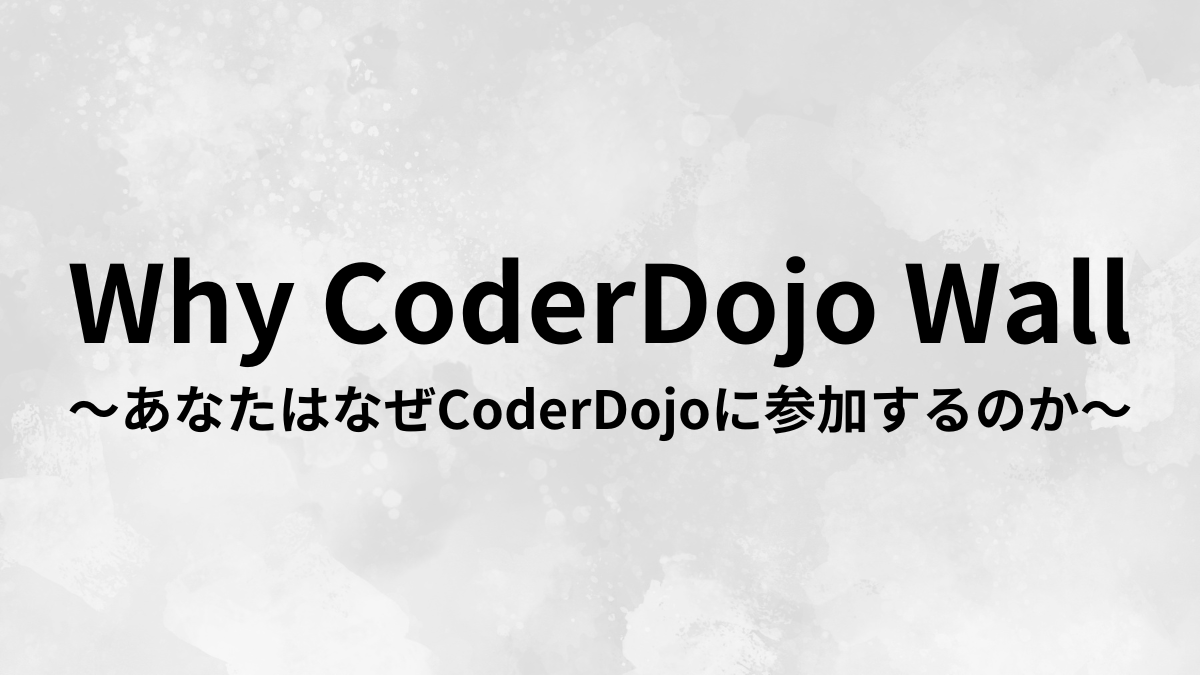
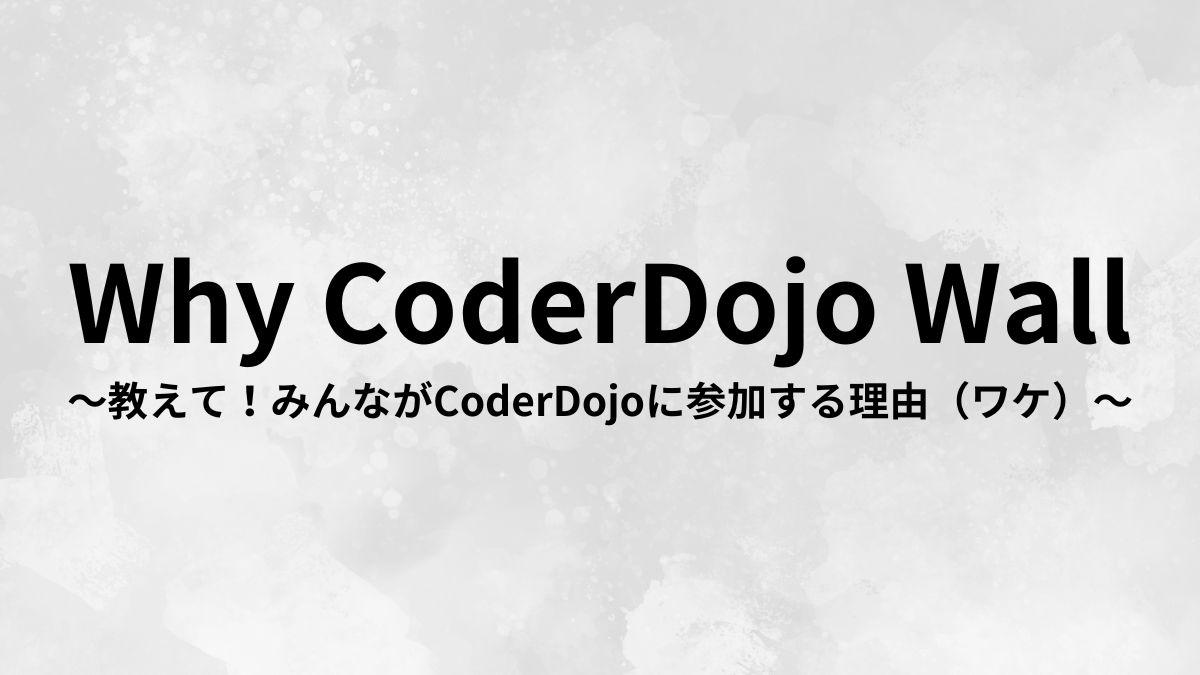
Why CoderDojo Wall追加

Changed region(s): [[0.0617, 0.56, 0.9558, 0.6533]]

diff --git a/_posts/2023-08-08-why-coderdojo-wall.md b/_posts/2023-08-08-why-coderdojo-wall.md
@@ -1,0 +1,19 @@
+---
+layout: post
+title: Why CoderDojo Wall〜教えて！みんながCoderDojoに参加する理由（ワケ）〜
+date: 2023-08-08T22:00:00 UTC+9
+categories: news
+thumbnail: /img/2023/event/why-coderdojo-wall.png
+permalink: /why-coderdojo-wall/
+---
+## Why CoderDojo Wallとは
+
+Why CoderDojo Wallは、みんながCoderDojoに関わった（立ち上げた、参加している）理由や関わり続けている理由を自由に書いて共有するためのボードです。
+
+チャンピオンのあなたはなぜCoderDojoをはじめましたか？
+ニンジャのあなたはどうしてCoderDojoに参加しているのですか？
+メンターや保護者のあなたは？？
+スポンサーのみなさんはなぜ私たちを支援しようと思ってくれたのですか？
+
+それぞれの理由をシェアすることで、自身の考えやCoderDojo仲間への理解を深める機会になるかもしれません。
+ここに書かれた内容は、[みんなのセッション](/minnnano-session/)の「なぜあなたはCoderDojoに参加しているのですか」で共有、紹介します。
